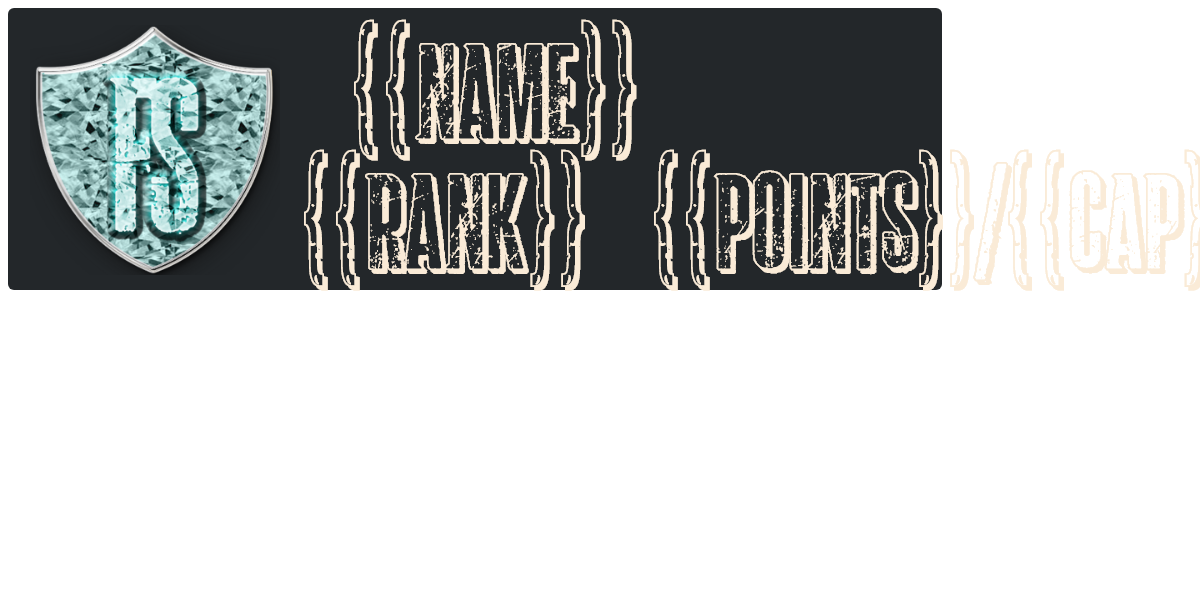
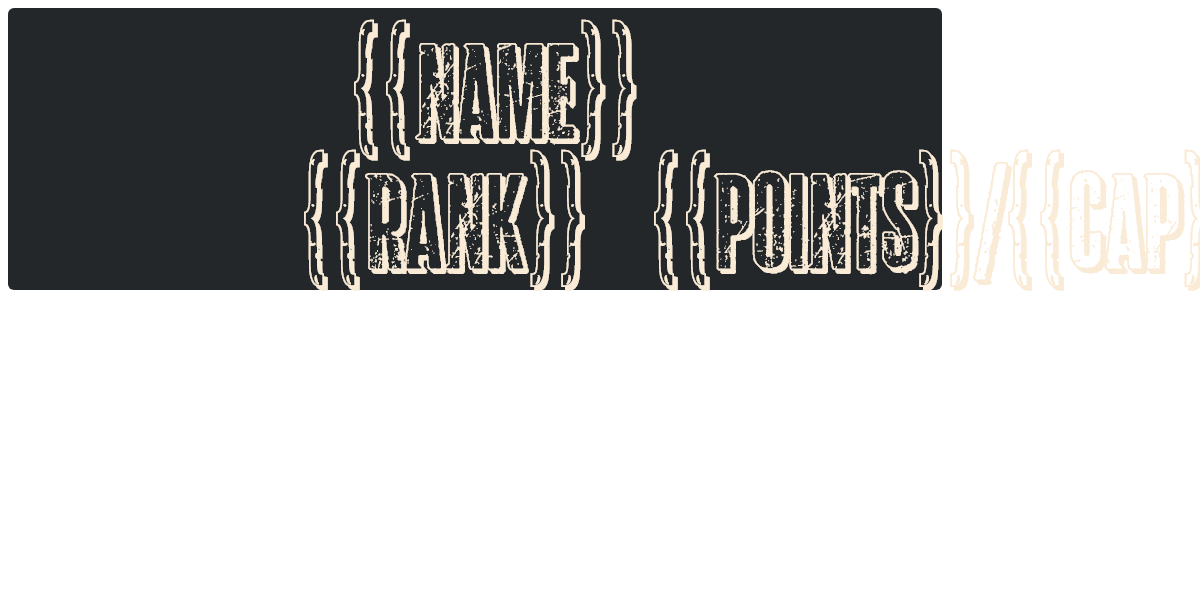
Can create custom html now

Changed region(s): [[0.0308, 0.03, 0.2467, 0.45]]

diff --git a/index.js b/index.js
@@ -221,9 +221,9 @@ client2.on("chat", (channel, userstate, message, self) => {
                 client2.say(channel, `@${userstate.username} Thanks for lurking!!!`);
                 timeLurker(userstate, 1);
             } else {
-                users[userstate.username] = 1;
-                console.log('Twitch: ' + msg.author + ' has been added to the points database!');
-                console.log(users);
+                // users[userstate.username] = 1;
+                // console.log('Twitch: ' + msg.author + ' has been added to the points database!');
+                // console.log(users);
                 client2.say(channel, `@${userstate.username} Thanks for lurking!!!`);
             }
         }
@@ -234,9 +234,9 @@ client2.on("chat", (channel, userstate, message, self) => {
                 client2.say(channel, `@${userstate.username} RAIDING!!!`);
                 timeLurker(userstate, 2);
             } else {
-                users[userstate.username] = 1;
-                console.log('Twitch: ' + msg.author + ' has been added to the points database!');
-                console.log(users);
+                // users[userstate.username] = 1;
+                // console.log('Twitch: ' + msg.author + ' has been added to the points database!');
+                // console.log(users);
                 client2.say(channel, `@${userstate.username} You have been added to the points database on the Discord server!`);
             }
         }
@@ -400,6 +400,9 @@ function isLive(channelName) {
  * @returns Gulp output. May be useful for logging.
  */
 function generateImage(discordName) {
+    console.log("Customizing HTML for " + discordName);
+    customizeHTML(discordName);
+
     console.log("Generating image for " + discordName);
     const gulp = require("gulp");
     const puppeteer = require("puppeteer");
@@ -427,12 +430,34 @@ function customizeHTML(discordName) {
 
     let fs = require("fs-extra");
     let path = require("path");
+    
+    var file = fs.readFileSync(path.join(__dirname, "badgeBanner.html"), "utf8");
+    
+    file = file.replace("{{NAME}}", discordName.substring(0, discordName.length - 5));
+    var points = users[discordName];
+    if (users === undefined || points === undefined || typeof points === "undefined" || points.toString() == "undefined" || points == null) {
+        points = "0";
+    }
+    file = file.replace("{{POINTS}}", points);
+    var cap = 100;
+    var rank = "BRONZE";
+    if (users[discordName] >= diamond) {
+        cap = "MAXED";
+        rank = "DIAMOND";
+        file = file.replace("id=\"diamond\" style=\"display: none;\"", "id=\"diamond\"");
+    } else if (users[discordName] >= 500) {
+        cap = "1000";
+        rank = "GOLD";
+        file = file.replace("id=\"gold\" style=\"display: none;\"", "id=\"gold\"");
+    } else if (users[discordName] >= 100) {
+        cap = "500";
+        rank = "SILVER";
+        file = file.replace("id=\"silver\" style=\"display: none;\"", "id=\"silver\"");
+    } else {
+        file = file.replace("id=\"bronze\" style=\"display: none;\"", "id=\"bronze\"");
+    }
+    file = file.replace("{{CAP}}", cap);
+    file = file.replace("{{RANK}}", rank);
 
-    fs.readFile(path.join(__dirname, "filePath"), "utf8",(data, err) => {
-    console.log(data); // logs file content in string 
-    });
-
-    fs.readFile(path.join(__dirname, "filePath"), (data, err) => {
-    console.log(data); // logs file content in buffer
-    });
+    fs.writeFile(discordName + ".html", file, "utf8");
 }

diff --git a/redneckn3rd#8013.html b/redneckn3rd#8013.html
@@ -46,12 +46,12 @@
       </head>
     <body id="my-node">
         <img src="./FortifyStreamersResources/background.png" class="background"/>
-        <img src="./FortifyStreamersResources/bronze.png" class="badge" id="bronze" style="display: none;" width="250" />
+        <img src="./FortifyStreamersResources/bronze.png" class="badge" id="bronze" width="250" />
         <img src="./FortifyStreamersResources/silver.png" class="badge" id="silver" style="display: none;" width="250" />
         <img src="./FortifyStreamersResources/gold.png" class="badge" id="gold" style="display: none;" width="250" />
         <img src="./FortifyStreamersResources/diamond.png" class="badge" id="diamond" style="display: none;" width="250" />
-        <p class="name">{{NAME}}</p>
-        <p class="points">{{POINTS}}/{{CAP}}</p>
-        <p class="rank">{{RANK}}</p>
+        <p class="name">redneckn3rd</p>
+        <p class="points">0/100</p>
+        <p class="rank">BRONZE</p>
     </body>
 </html>
